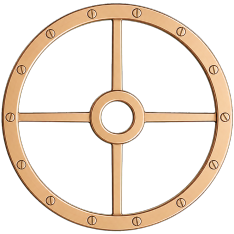
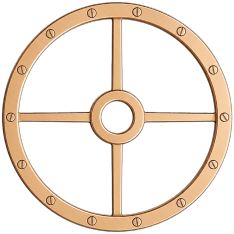
Circularize the balance sprite; 270-degree sweep
The render's ring was 0.7% oval (k=2 3.35px at r479) — a radial warp
normalizes its low-harmonic radius profile to a true circle, removing
the breathing component of the wobble. The swing amplitude rises to
±135 deg: a full 270-degree rotation between turning points.

diff --git a/index.html b/index.html
@@ -268,7 +268,7 @@
                 <img class="cb-rig-part" data-part="secondswheel" data-anim="{&quot;type&quot;:&quot;spin&quot;,&quot;period_s&quot;:60,&quot;direction&quot;:&quot;ccw&quot;,&quot;steps&quot;:300}" src="/assets/caseback/rig/part-secondswheel.webp" alt="" decoding="async">
               </div>
               <div class="cb-rig-partwrap cb-rig-partwrap--low" style="left:44.426%;top:58.317%;width:18.660%;height:18.660%">
-                <img class="cb-rig-part" data-part="balance" data-anim="{&quot;type&quot;:&quot;oscillate&quot;,&quot;amplitude_deg&quot;:28,&quot;period_s&quot;:0.52}" src="/assets/caseback/rig/part-balance.webp" alt="" decoding="async">
+                <img class="cb-rig-part" data-part="balance" data-anim="{&quot;type&quot;:&quot;oscillate&quot;,&quot;amplitude_deg&quot;:135,&quot;period_s&quot;:0.52}" src="/assets/caseback/rig/part-balance.webp" alt="" decoding="async">
               </div>
               <img class="cb-rig-static" src="/assets/caseback/rig/static-bridges.webp" style="left:41.388%;top:19.537%;width:36.204%;height:39.155%" alt="" decoding="async">
               <img class="cb-rig-static" src="/assets/caseback/rig/static-cock.webp" style="left:58.692%;top:54.545%;width:22.329%;height:24.482%" alt="" decoding="async">

diff --git a/tools/build-caseback-overlay.py b/tools/build-caseback-overlay.py
@@ -21,6 +21,7 @@ at-rest fallback (shown when the rig is hidden / reduced motion).
 Usage: python3 tools/build-caseback-overlay.py
 """
 import json
+import math
 import sys
 from pathlib import Path
 
@@ -122,6 +123,44 @@ def build_part(p):
     cw = min(x0 + size, src.shape[1]) - cx0
     ch = min(y0 + size, src.shape[0]) - cy0
     pad[sy0:sy0 + ch, sx0:sx0 + cw] = src[cy0:cy0 + ch, cx0:cx0 + cw]
+    if p.get("circularize"):
+        # the render's ring is measurably oval (k=2 ~ 3.3px at r479); warp it
+        # radially so the smooth low-harmonic radius profile becomes constant
+        ac = (pad[..., 3] > 10).astype(np.float32)
+        n_ang = 720
+        th = np.linspace(0, 2 * math.pi, n_ang, endpoint=False)
+        rr = np.arange(r_src * 0.75, r_src * 1.05, 0.5)
+        edge = np.full(n_ang, np.nan)
+        ctr = size / 2
+        for i, ang in enumerate(th):
+            xs_s = np.clip((ctr + rr * math.cos(ang)).astype(int), 0, size - 1)
+            ys_s = np.clip((ctr + rr * math.sin(ang)).astype(int), 0, size - 1)
+            on = np.where(ac[ys_s, xs_s] > 0.5)[0]
+            if len(on):
+                edge[i] = rr[on.max()]
+        ok = ~np.isnan(edge)
+        lim = np.percentile(edge[ok], 72)
+        band = np.minimum(edge, lim)
+        prof = np.copy(band)
+        prof[~ok] = np.nanmean(band)
+        # smooth profile: harmonics k<=4 only (screws and noise excluded)
+        F = np.fft.rfft(prof)
+        F[5:] = 0
+        smooth = np.fft.irfft(F, n_ang)
+        target = smooth.mean()
+        scale_th = smooth / target  # source radius per unit target radius
+        yy_g, xx_g = np.mgrid[0:size, 0:size].astype(np.float32)
+        dxg, dyg = xx_g - ctr, yy_g - ctr
+        r_g = np.hypot(dxg, dyg)
+        th_g = np.arctan2(dyg, dxg) % (2 * math.pi)
+        s_g = np.interp(th_g.ravel(), th, scale_th, period=2 * math.pi) \
+            .reshape(size, size).astype(np.float32)
+        map_x = (ctr + dxg * s_g).astype(np.float32)
+        map_y = (ctr + dyg * s_g).astype(np.float32)
+        pad = cv2.remap(pad, map_x, map_y, cv2.INTER_LINEAR)
+        print(f"  {p['name']}: circularized (ovality profile span "
+              f"{smooth.min():.1f}..{smooth.max():.1f} -> {target:.1f})")
+
     rot = p.get("rot_deg", 0) % 360
     if rot:
         if rot % 90 == 0:
